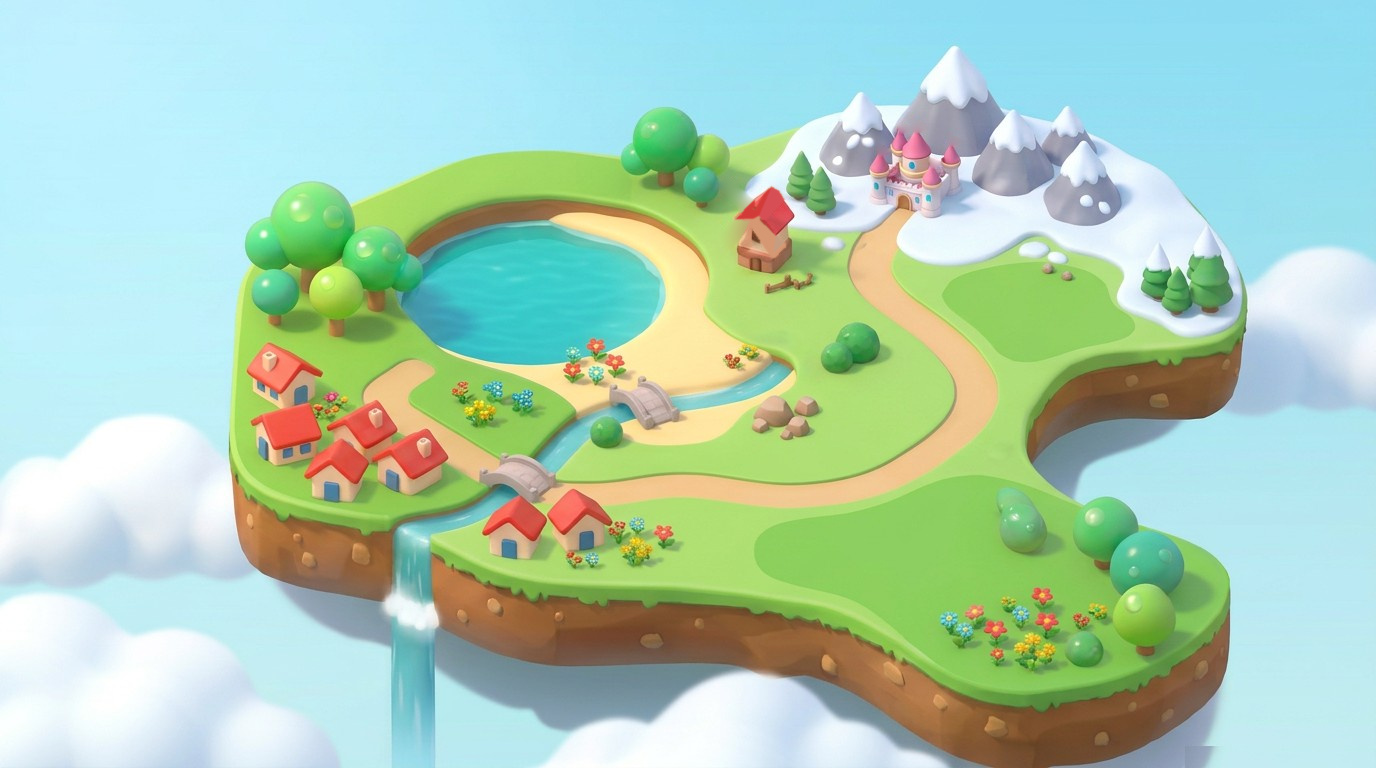
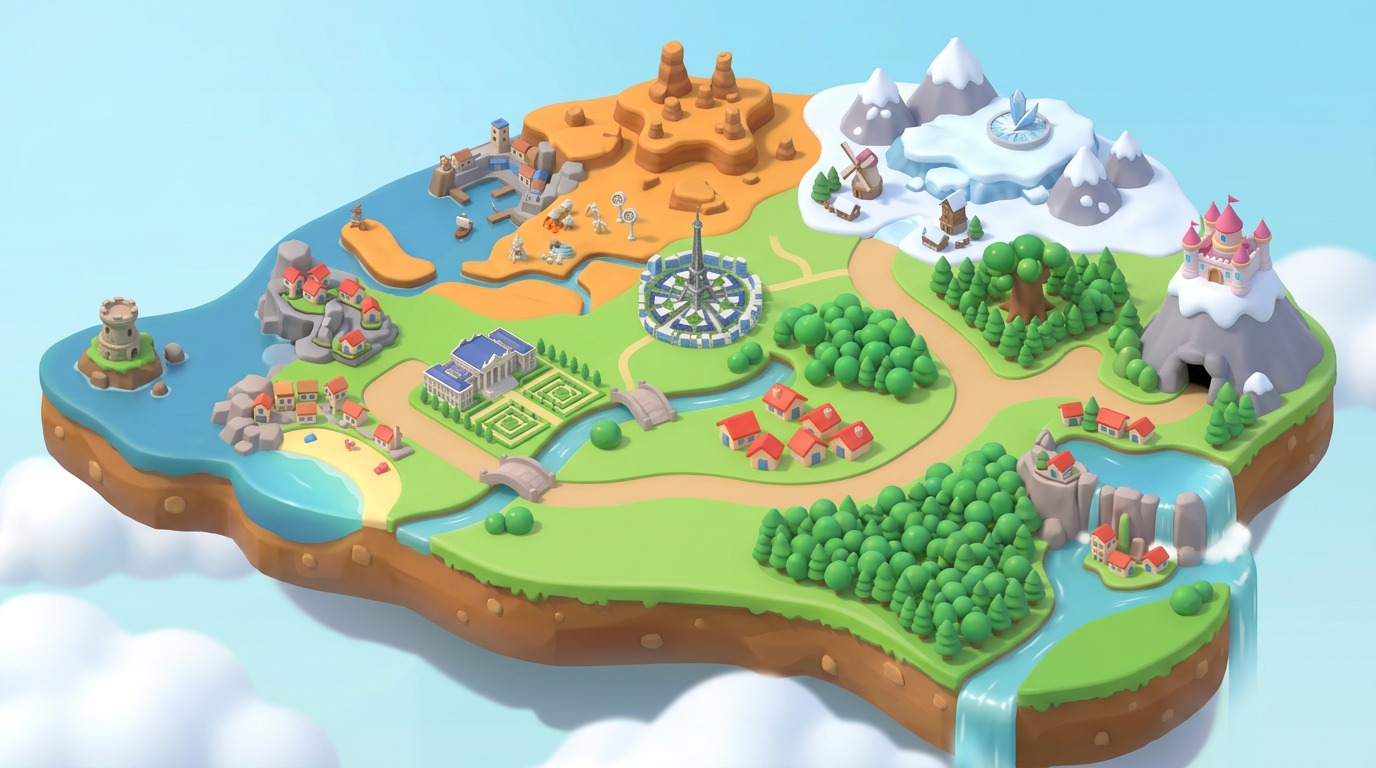
Pokelocke: el tablero es Kalos, con un camino de casillas y la isla animada
- Isla nueva hecha con el mapa de Kalos: cada casilla de la historia en su
  sitio real (Luminalia en la ciudad redonda, la Cueva Brillante en las rocas
  del oeste, el castillo al final).
- Entre casilla y casilla, un camino de casillas pequeñas en curva: en oro
  las recorridas.
- Animaciones: cascadas, destellos, pájaros y banderas del castillo.

diff --git a/locke-y/app/web/app.html b/locke-y/app/web/app.html
@@ -77,6 +77,8 @@
   @keyframes brillo { to { stroke-dashoffset: -28; } }
   .tb-casilla { position: absolute; width: 2.3cqw; height: 1.25cqw; transform: translate(-50%, -50%); }
   .tb-casilla.gran { width: 2.9cqw; height: 1.55cqw; }
+  .tb-paso { position: absolute; width: .95cqw; height: .52cqw; border-radius: 50%; transform: translate(-50%, -50%); background: radial-gradient(ellipse at 50% 35%, #F4F6FA 0 45%, #D3D9E5 100%); box-shadow: 0 .17cqw 0 #8E99B0, 0 .3cqw .3cqw rgba(27,32,48,.25); }
+  .tb-paso.hecho { background: radial-gradient(ellipse at 50% 35%, #FFF1A8 0 40%, #FFCB05 100%); box-shadow: 0 .17cqw 0 #B88A00, 0 .3cqw .3cqw rgba(27,32,48,.25); }
   .tb-escena { cursor: grab; touch-action: none; }
   .tb-escena.arrastrando { cursor: grabbing; }
   .tb-escena.suave { transition: transform .35s cubic-bezier(.2, .8, .2, 1); }
@@ -471,12 +473,9 @@
       <img class="tb-isla" src="/assets/tablero-isla.jpg" alt="">
       <!-- las aspas y las banderas no están en la imagen: van aquí, en px de la imagen, para que se muevan -->
       <svg class="tb-camino" id="tb-vida" viewBox="0 0 1376 768" preserveAspectRatio="none" aria-hidden="true">
-        <defs><g id="tb-aspa"><rect x="28" y="-36" width="72" height="31" rx="3" fill="#D9B48A"/><rect x="28" y="-33" width="72" height="29" rx="3" fill="#EFD3AE"/><rect x="-4" y="-4" width="106" height="8" rx="3" fill="#9A6A42"/></g></defs>
-        <g transform="matrix(.285 .34 .255 -.27 752 218)">
-          <g><animateTransform attributeName="transform" type="rotate" from="0" to="360" dur="9s" repeatCount="indefinite"/>
-            <use href="#tb-aspa"/><use href="#tb-aspa" transform="rotate(90)"/><use href="#tb-aspa" transform="rotate(180)"/><use href="#tb-aspa" transform="rotate(270)"/></g>
-          <circle r="11" fill="#7E5233"/>
-        </g>
+        <g stroke="#fff" stroke-width="2.2" opacity=".55"><line x1="1222" y1="478" x2="1222" y2="766" stroke-dasharray="9 24"><animate attributeName="stroke-dashoffset" values="0;-33" dur="0.9s" begin="-0.4s" repeatCount="indefinite"/></line><line x1="1228" y1="478" x2="1228" y2="766" stroke-dasharray="9 24"><animate attributeName="stroke-dashoffset" values="0;-33" dur="0.9s" begin="-0.6s" repeatCount="indefinite"/></line><line x1="1234" y1="478" x2="1234" y2="766" stroke-dasharray="9 24"><animate attributeName="stroke-dashoffset" values="0;-33" dur="0.9s" begin="-0.8s" repeatCount="indefinite"/></line><line x1="1240" y1="478" x2="1240" y2="766" stroke-dasharray="9 24"><animate attributeName="stroke-dashoffset" values="0;-33" dur="0.9s" begin="-0.0s" repeatCount="indefinite"/></line><line x1="1246" y1="478" x2="1246" y2="766" stroke-dasharray="9 24"><animate attributeName="stroke-dashoffset" values="0;-33" dur="0.9s" begin="-0.2s" repeatCount="indefinite"/></line><line x1="1252" y1="478" x2="1252" y2="766" stroke-dasharray="9 24"><animate attributeName="stroke-dashoffset" values="0;-33" dur="0.9s" begin="-0.4s" repeatCount="indefinite"/></line><line x1="1258" y1="478" x2="1258" y2="766" stroke-dasharray="9 24"><animate attributeName="stroke-dashoffset" values="0;-33" dur="0.9s" begin="-0.6s" repeatCount="indefinite"/></line><line x1="958" y1="678" x2="958" y2="768" stroke-dasharray="9 24"><animate attributeName="stroke-dashoffset" values="0;-33" dur="0.9s" begin="-0.6s" repeatCount="indefinite"/></line><line x1="965" y1="678" x2="965" y2="768" stroke-dasharray="9 24"><animate attributeName="stroke-dashoffset" values="0;-33" dur="0.9s" begin="-0.5s" repeatCount="indefinite"/></line><line x1="972" y1="678" x2="972" y2="768" stroke-dasharray="9 24"><animate attributeName="stroke-dashoffset" values="0;-33" dur="0.9s" begin="-0.4s" repeatCount="indefinite"/></line><line x1="979" y1="678" x2="979" y2="768" stroke-dasharray="9 24"><animate attributeName="stroke-dashoffset" values="0;-33" dur="0.9s" begin="-0.3s" repeatCount="indefinite"/></line><line x1="986" y1="678" x2="986" y2="768" stroke-dasharray="9 24"><animate attributeName="stroke-dashoffset" values="0;-33" dur="0.9s" begin="-0.2s" repeatCount="indefinite"/></line><line x1="993" y1="678" x2="993" y2="768" stroke-dasharray="9 24"><animate attributeName="stroke-dashoffset" values="0;-33" dur="0.9s" begin="-0.1s" repeatCount="indefinite"/></line><line x1="1000" y1="678" x2="1000" y2="768" stroke-dasharray="9 24"><animate attributeName="stroke-dashoffset" values="0;-33" dur="0.9s" begin="-0.0s" repeatCount="indefinite"/></line><line x1="1007" y1="678" x2="1007" y2="768" stroke-dasharray="9 24"><animate attributeName="stroke-dashoffset" values="0;-33" dur="0.9s" begin="-0.9s" repeatCount="indefinite"/></line></g>
+        <g><path transform="translate(1014 100) scale(1)" d="M0-6 1.4-1.4 6 0 1.4 1.4 0 6-1.4 1.4-6 0-1.4-1.4Z" fill="#fff" opacity="0"><animate attributeName="opacity" values="0;1;0" dur="2.4s" begin="-0s" repeatCount="indefinite"/></path><path transform="translate(1030 112) scale(0.7)" d="M0-6 1.4-1.4 6 0 1.4 1.4 0 6-1.4 1.4-6 0-1.4-1.4Z" fill="#fff" opacity="0"><animate attributeName="opacity" values="0;1;0" dur="2.4s" begin="-0.8s" repeatCount="indefinite"/></path><path transform="translate(1003 120) scale(0.6)" d="M0-6 1.4-1.4 6 0 1.4 1.4 0 6-1.4 1.4-6 0-1.4-1.4Z" fill="#fff" opacity="0"><animate attributeName="opacity" values="0;1;0" dur="2.4s" begin="-1.6s" repeatCount="indefinite"/></path><path transform="translate(232 286) scale(0.8)" d="M0-6 1.4-1.4 6 0 1.4 1.4 0 6-1.4 1.4-6 0-1.4-1.4Z" fill="#fff" opacity="0"><animate attributeName="opacity" values="0;1;0" dur="2.4s" begin="-0.4s" repeatCount="indefinite"/></path><path transform="translate(412 252) scale(0.7)" d="M0-6 1.4-1.4 6 0 1.4 1.4 0 6-1.4 1.4-6 0-1.4-1.4Z" fill="#fff" opacity="0"><animate attributeName="opacity" values="0;1;0" dur="2.4s" begin="-1.2s" repeatCount="indefinite"/></path><path transform="translate(168 432) scale(0.9)" d="M0-6 1.4-1.4 6 0 1.4 1.4 0 6-1.4 1.4-6 0-1.4-1.4Z" fill="#fff" opacity="0"><animate attributeName="opacity" values="0;1;0" dur="2.4s" begin="-2s" repeatCount="indefinite"/></path><path transform="translate(1160 508) scale(0.7)" d="M0-6 1.4-1.4 6 0 1.4 1.4 0 6-1.4 1.4-6 0-1.4-1.4Z" fill="#fff" opacity="0"><animate attributeName="opacity" values="0;1;0" dur="2.4s" begin="-0.6s" repeatCount="indefinite"/></path><path transform="translate(520 318) scale(0.5)" d="M0-6 1.4-1.4 6 0 1.4 1.4 0 6-1.4 1.4-6 0-1.4-1.4Z" fill="#fff" opacity="0"><animate attributeName="opacity" values="0;1;0" dur="2.4s" begin="-1.4s" repeatCount="indefinite"/></path></g>
+        <g><path d="M-6 0Q-3-4 0 0Q3-4 6 0" fill="none" stroke="#3E4A63" stroke-width="1.3" stroke-linecap="round" transform="scale(1.4)"><animateMotion path="M-40 60C300 30 700 85 1420 50" dur="38s" begin="-0s" repeatCount="indefinite"/></path><path d="M-6 0Q-3-4 0 0Q3-4 6 0" fill="none" stroke="#3E4A63" stroke-width="1.3" stroke-linecap="round" transform="scale(1.1)"><animateMotion path="M-40 78C300 48 700 103 1420 68" dur="44s" begin="-15s" repeatCount="indefinite"/></path><path d="M-6 0Q-3-4 0 0Q3-4 6 0" fill="none" stroke="#3E4A63" stroke-width="1.3" stroke-linecap="round" transform="scale(1.2)"><animateMotion path="M-40 48C300 18 700 73 1420 38" dur="52s" begin="-30s" repeatCount="indefinite"/></path></g>
         <g id="tb-banderas"></g>
       </svg>
       <svg class="tb-camino" viewBox="0 0 1376 768" preserveAspectRatio="none" aria-hidden="true"><polyline class="base" id="tb-hecho"/><polyline class="brillo" id="tb-brillo"/></svg>
@@ -1030,7 +1029,7 @@ const HITOS = [
   {id: 'cueva', n: 'Cueva Brillante', obj: 'Rescata al científico', det: 'Tu primer combate contra el Team Flare', ico: 'flare', ok: (t) => t.cueva},
   llegada('relieve', 'Ciudad Relieve'),
   medalla('Lino', 1),
-  llegada('cromlech', 'Pueblo Crómlech', 'El Team Flare ronda las piedras', 'casa'),
+  llegada('cromlech', 'Pueblo Crómlech', 'El Team Flare ronda las piedras antiguas', 'casa'),
   llegada('yantra', 'Ciudad Yantra', 'La Torre Maestra guarda el secreto de la megaevolución'),
   medalla('Corelia', 2),
   {id: 'megaaro', n: 'Torre Maestra', obj: 'Tu primera megaevolución', det: 'Corelia y su Lucario te dan el Megaaro', ico: 'mega', ok: (t) => t.megaaro},
@@ -1044,7 +1043,7 @@ const HITOS = [
   llegada('fresco', 'Pueblo Fresco', 'La Gruta Helada te espera', 'casa'),
   llegada('fluxus', 'Ciudad Fluxus'),
   medalla('Ástrid', 6),
-  {id: 'flare', n: 'Guarida del Team Flare', obj: 'Detén a Lysson', det: 'Bajo Pueblo Crómlech, con el arma definitiva', ico: 'flare', ok: (t) => t.base_flare},
+  {id: 'flare', n: 'Guarida del Team Flare', obj: 'Detén a Lysson', det: 'Del Café Lysson de Luminalia a la guarida bajo Pueblo Crómlech', ico: 'flare', ok: (t) => t.base_flare},
   llegada('fractal', 'Ciudad Fractal'),
   medalla('Édel', 7),
   llegada('victoria', 'Calle Victoria', 'El último camino hasta la Liga', 'monte'),
@@ -1052,19 +1051,33 @@ const HITOS = [
   {id: 'campeona', n: 'Campeona Dianta', obj: 'Campeona Dianta', ico: 'corona', ok: () => false},
   {id: 'torneo', n: 'Torneo final', obj: 'Torneo final', ico: 'trofeo', ok: () => false},
 ];
-// el camino de la isla (px de la imagen de 1376×768); las casillas se reparten por él a la misma distancia, así que con
-// otra isla basta con cambiar CAMINO
-const CAMINO = [[372, 392], [434, 427], [492, 466], [559, 488], [629, 497], [700, 497], [769, 503], [827, 543], [887, 580], [955, 597], [1025, 587], [1062, 530], [1025, 470], [994, 409], [979, 340], [938, 285], [877, 250], [905, 214]];
-const PUNTOS = (() => {
-  const tramos = CAMINO.slice(1).map((b, k) => Math.hypot(b[0] - CAMINO[k][0], b[1] - CAMINO[k][1]));
-  const total = tramos.reduce((s, l) => s + l, 0);
-  return HITOS.map((_, n) => {
-    let s = total * n / (HITOS.length - 1), k = 0;
-    while (k < tramos.length - 1 && s > tramos[k]) s -= tramos[k++];
-    const f = s / tramos[k], [a, b] = [CAMINO[k], CAMINO[k + 1]];
-    return [Math.round(a[0] + (b[0] - a[0]) * f), Math.round(a[1] + (b[1] - a[1]) * f)];
-  });
-})();
+// dónde va cada casilla en la isla (px de la imagen de 1376×768), en el mismo orden que HITOS: cada una en su sitio
+// del mapa de Kalos (Luminalia en la ciudad redonda, la Cueva Brillante en las rocas del oeste, el castillo al final…)
+const PUNTOS = [
+  [762, 490], [868, 486], [944, 420], [940, 372], [905, 328], [850, 286], [765, 330],              // Boceto … Luminalia
+  [615, 368], [440, 432], [388, 456], [252, 398], [300, 350], [385, 300],                          // Vánitas … Lino
+  [225, 352], [165, 378], [96, 360], [122, 300],                                                   // Crómlech … Megaaro
+  [505, 197], [578, 190], [616, 252], [662, 246],                                                  // Témpera … Lem
+  [960, 322], [1052, 348], [1094, 318],                                                            // Romantis … Fábrica
+  [880, 214], [1008, 160], [1062, 176], [736, 382],                                                // Fresco … Guarida
+  [922, 252], [986, 236], [1150, 386], [1162, 330], [1200, 300], [1252, 300],                      // Fractal … Torneo
+];
+// el camino de casillas pequeñas entre una casilla de la historia y la siguiente: una curva suave (Catmull-Rom) por
+// PUNTOS, con un paso cada 18 px de la imagen que no pise las casillas de los extremos
+const TRAMOS = PUNTOS.slice(0, -1).map((_, i) => {
+  const [p0, p1, p2, p3] = [PUNTOS[Math.max(0, i - 1)], PUNTOS[i], PUNTOS[i + 1], PUNTOS[Math.min(PUNTOS.length - 1, i + 2)]];
+  const curva = [];
+  for (let k = 0; k <= 40; k++) {
+    const s = k / 40, s2 = s * s, s3 = s2 * s;
+    curva.push([0, 1].map((c) => .5 * (2 * p1[c] + (p2[c] - p0[c]) * s + (2 * p0[c] - 5 * p1[c] + 4 * p2[c] - p3[c]) * s2 + (3 * p1[c] - p0[c] - 3 * p2[c] + p3[c]) * s3)));
+  }
+  const pasos = [];
+  for (let k = 1, llevo = 0; k < curva.length; k++) {
+    llevo += Math.hypot(curva[k][0] - curva[k - 1][0], curva[k][1] - curva[k - 1][1]);
+    if (llevo >= 18) { llevo = 0; pasos.push(curva[k]); }
+  }
+  return {curva, pasos: pasos.filter((q) => Math.hypot(q[0] - p1[0], q[1] - p1[1]) > 15 && Math.hypot(q[0] - p2[0], q[1] - p2[1]) > 15)};
+});
 const ball = (x, y) => `<g transform="translate(${x} ${y})"><circle r="11" fill="#fff" stroke="#1B2030" stroke-width="2.5"/><path d="M-11 0a11 11 0 0 1 22 0z" fill="#CC2B0B" stroke="#1B2030" stroke-width="2.5"/><circle r="3.5" fill="#fff" stroke="#1B2030" stroke-width="2.5"/></g>`;
 const ICONOS = {
   ciudad: '<svg viewBox="0 0 64 60"><path d="M6 56V30h14v26M22 56V12h18v44M42 56V24h16v32" fill="#E8F0FB" stroke="#1B2030" stroke-width="3" stroke-linejoin="round"/><path d="M27 20h8M27 28h8M27 36h8M10 38h6M47 32h6M47 40h6" stroke="#2A75BB" stroke-width="3"/><path d="M2 56h60" stroke="#1B2030" stroke-width="3" stroke-linecap="round"/></svg>',
@@ -1088,7 +1101,7 @@ const BANDERA = '<svg viewBox="0 0 40 76"><path d="M6 4v70" stroke="#5B4636" str
 
 // las banderas del castillo al viento: [x, y (donde se ata al mástil, px de la imagen), escala, desfase en s]
 const VIENTO = ['M0 0C3-1.5 6 1 10 3.5C6 4.5 3 5.5 0 7Z', 'M0 0C3 1 6-1 10 3C6 5.5 3 4 0 7Z', 'M0 0C3-.5 6 .5 9.5 4.5C6 4 3 6 0 7Z', 'M0 0C3-1.5 6 1 10 3.5C6 4.5 3 5.5 0 7Z'].join(';');
-$('tb-banderas').innerHTML = [[900.7, 125, .9, 0], [915, 121.5, 1.1, .35], [950, 137.5, .9, .7], [878.5, 146.7, .9, .2], [930.5, 159, .85, .5]]
+$('tb-banderas').innerHTML = [[1213, 190, .9, 0], [1262, 207, .9, .35], [1241, 236, .85, .7]]
   .map(([x, y, e, d]) => `<g transform="translate(${x} ${y}) scale(${e})"><path d="M0 0v11" stroke="#8A5A5A" stroke-width=".8"/><path fill="#E4555A"><animate attributeName="d" values="${VIENTO}" dur="1.1s" begin="-${d}s" repeatCount="indefinite"/></path></g>`).join('');
 if (matchMedia('(prefers-reduced-motion: reduce)').matches) $('tb-vida').pauseAnimations();
 
@@ -1175,7 +1188,9 @@ function pintarTablero(j) {
       ${otros[h.id] ? `<span class="tb-otros">${otros[h.id].map((o) => `<span class="tb-otro${o.conectado ? ' en-linea' : ''}" title="${esc(o.usuario)} · ${o.medallas}/8 medallas · ${o.vidas} vidas">${fotoJugador(o.usuario, o.foto)}</span>`).join('')}</span>` : ''}
       ${i === actual ? `<span class="tb-ficha">${FICHA}<span class="tb-aqui">Estás aquí</span></span>` : ''}</div>`;
   }).join('');
-  const hechos = PUNTOS.slice(0, actual === -1 ? PUNTOS.length : actual + 1).map((p) => p.join(',')).join(' ');
+  const hasta = actual === -1 ? TRAMOS.length : actual;
+  const hechos = TRAMOS.slice(0, hasta).flatMap((tr) => tr.curva).map((q) => q.map(Math.round).join(',')).join(' ');
+  const pasos = TRAMOS.flatMap((tr, i) => tr.pasos.map(([x, y]) => `<span class="tb-paso${i < hasta ? ' hecho' : ''}" style="left: ${x / 13.76}%; top: ${y / 7.68}%;"></span>`)).join('');
   const h = HITOS[actual === -1 ? HITOS.length - 1 : actual];
   const retrato = h.med ? `<img src="/assets/lider-${h.med}.png" alt="">` : `<span style="width: 70%; display: flex;">${ICONOS[h.ico]}</span>`;
   const objetivo = `<div class="tb-retrato">${retrato}</div><div><div class="que">${actual === -1 ? '¡Aventura completada!' : 'Siguiente objetivo'}</div>
@@ -1190,10 +1205,10 @@ function pintarTablero(j) {
       <img src="/arte/${p.especie}" alt="${esc(p.especie_nombre)}"><span class="nv">Nv. ${p.nivel}</span></div>`).join('');
   const jugar = `<button class="btn-jugar" type="button" data-accion="jugar" data-id="${j.id}">${j.preparado ? 'Jugar' : 'Preparar'}</button>
       <button class="btn btn-neutro" type="button" data-accion="menu" data-id="${j.id}" aria-expanded="${menuAbierto === j.id}">Más opciones</button>${menuAbierto === j.id ? menuJuego(j) : ''}`;
-  const html = casillas + objetivo + marcador + equipo + jugar + hechos;
+  const html = pasos + casillas + objetivo + marcador + equipo + jugar + hechos;
   if (html === pintado) return;
   pintado = html;
-  $('tb-casillas').innerHTML = casillas;
+  $('tb-casillas').innerHTML = pasos + casillas;
   $('tb-hecho').setAttribute('points', hechos);
   $('tb-brillo').setAttribute('points', hechos);
   $('tb-objetivo').innerHTML = objetivo;
